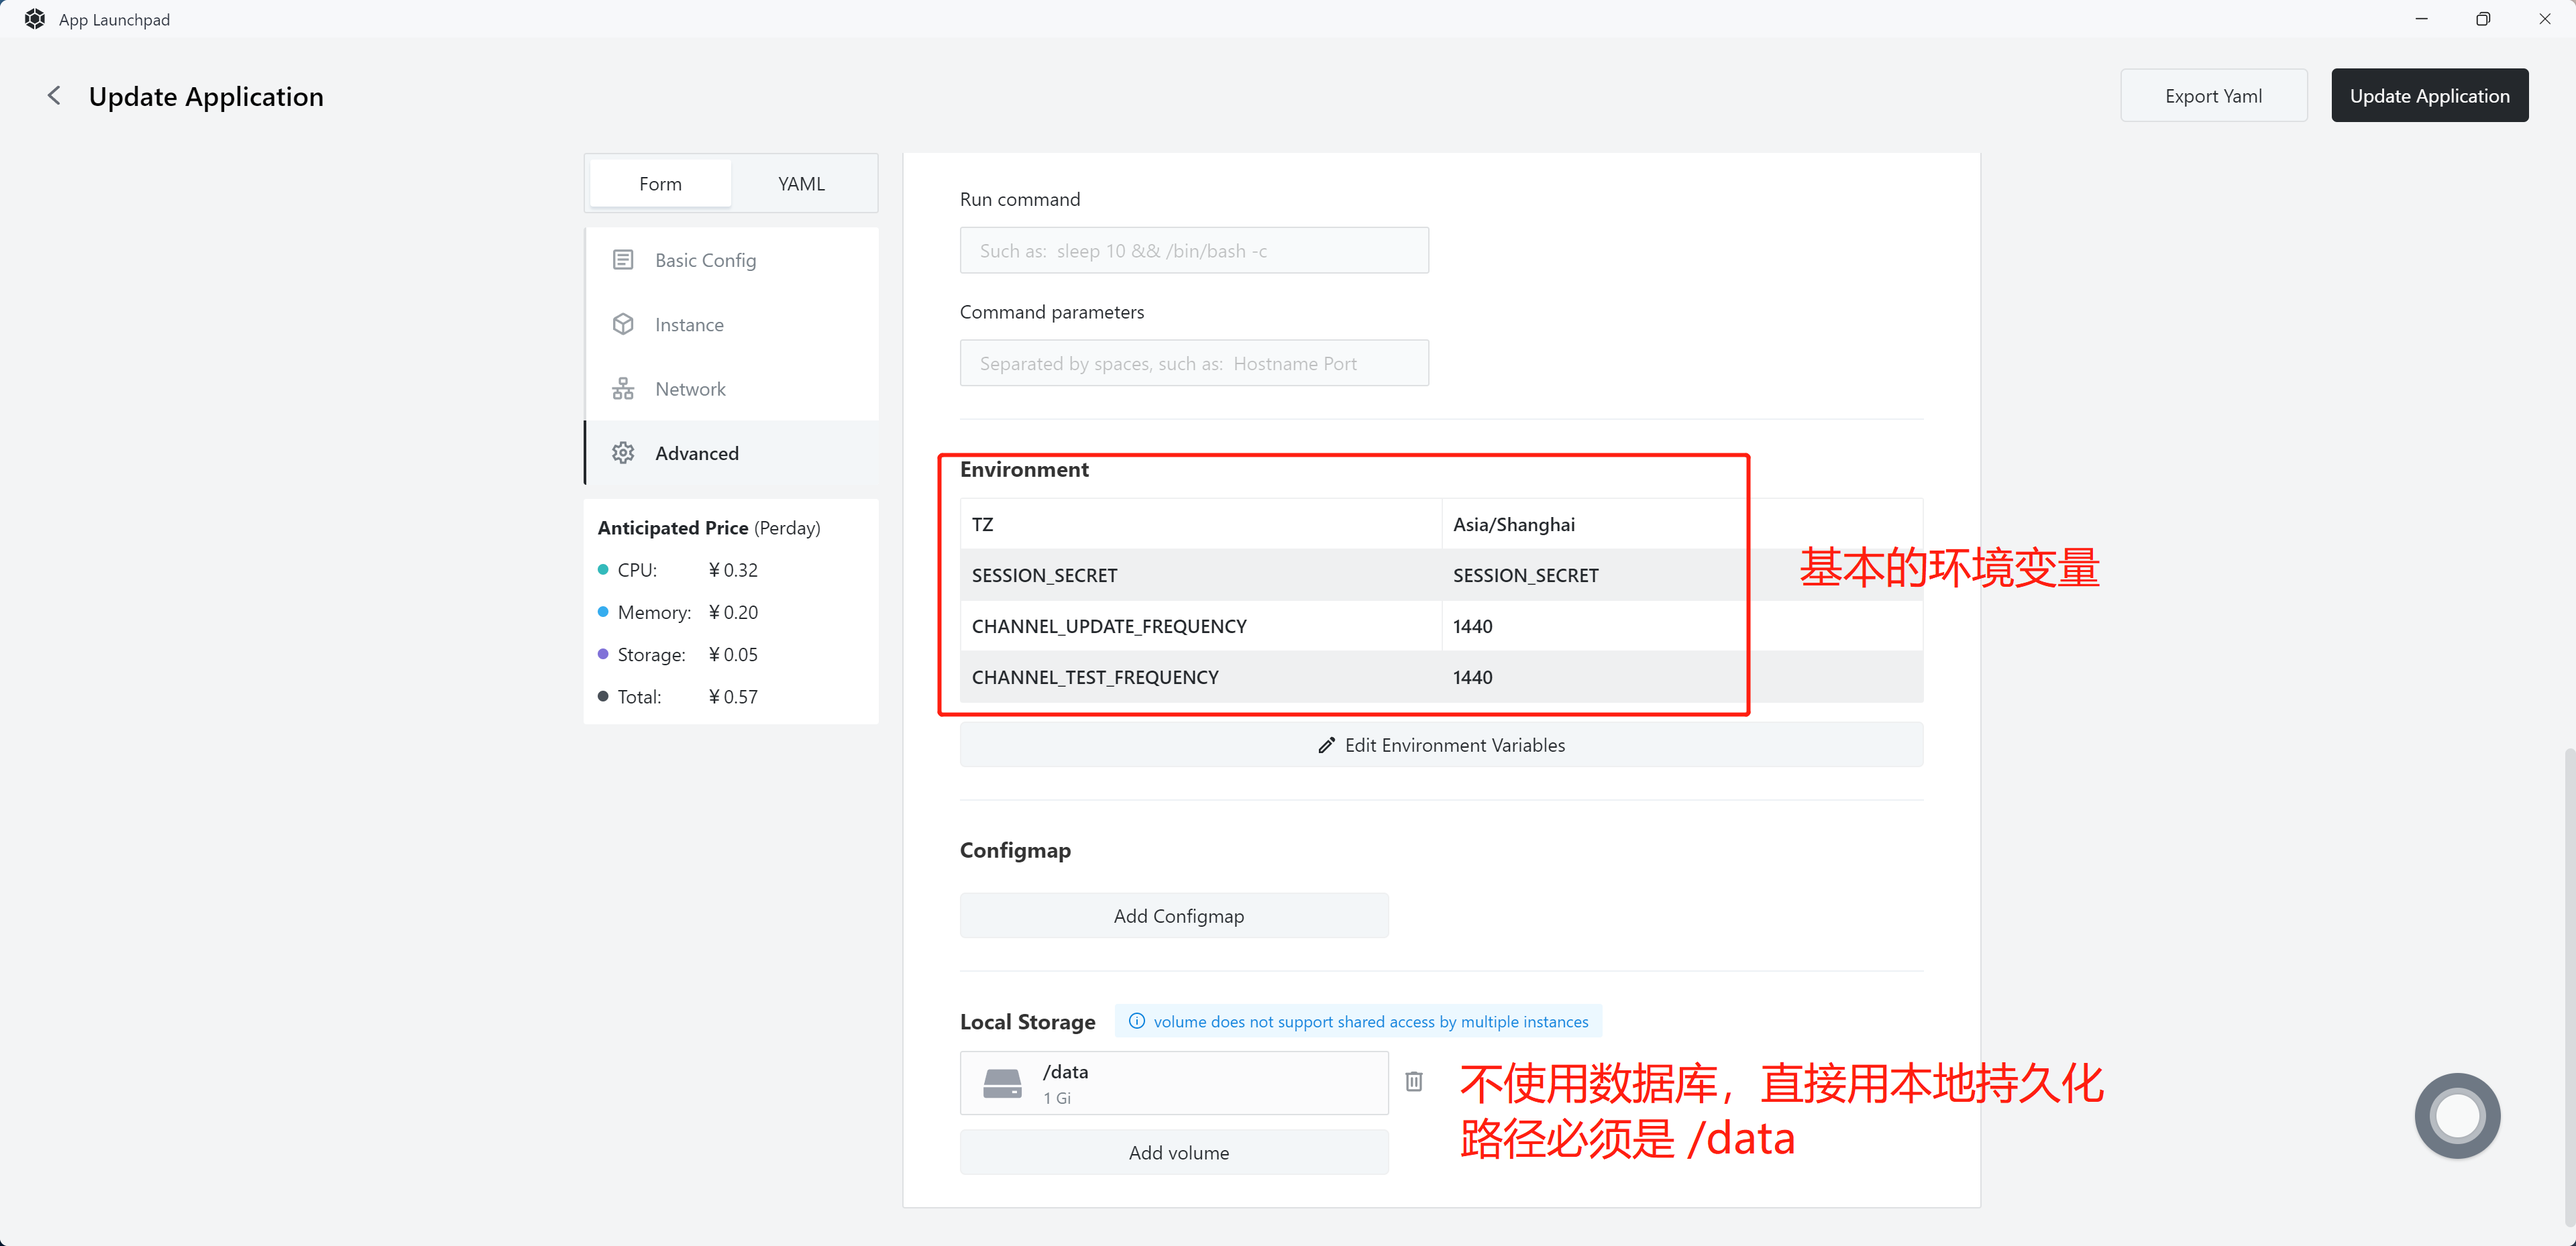
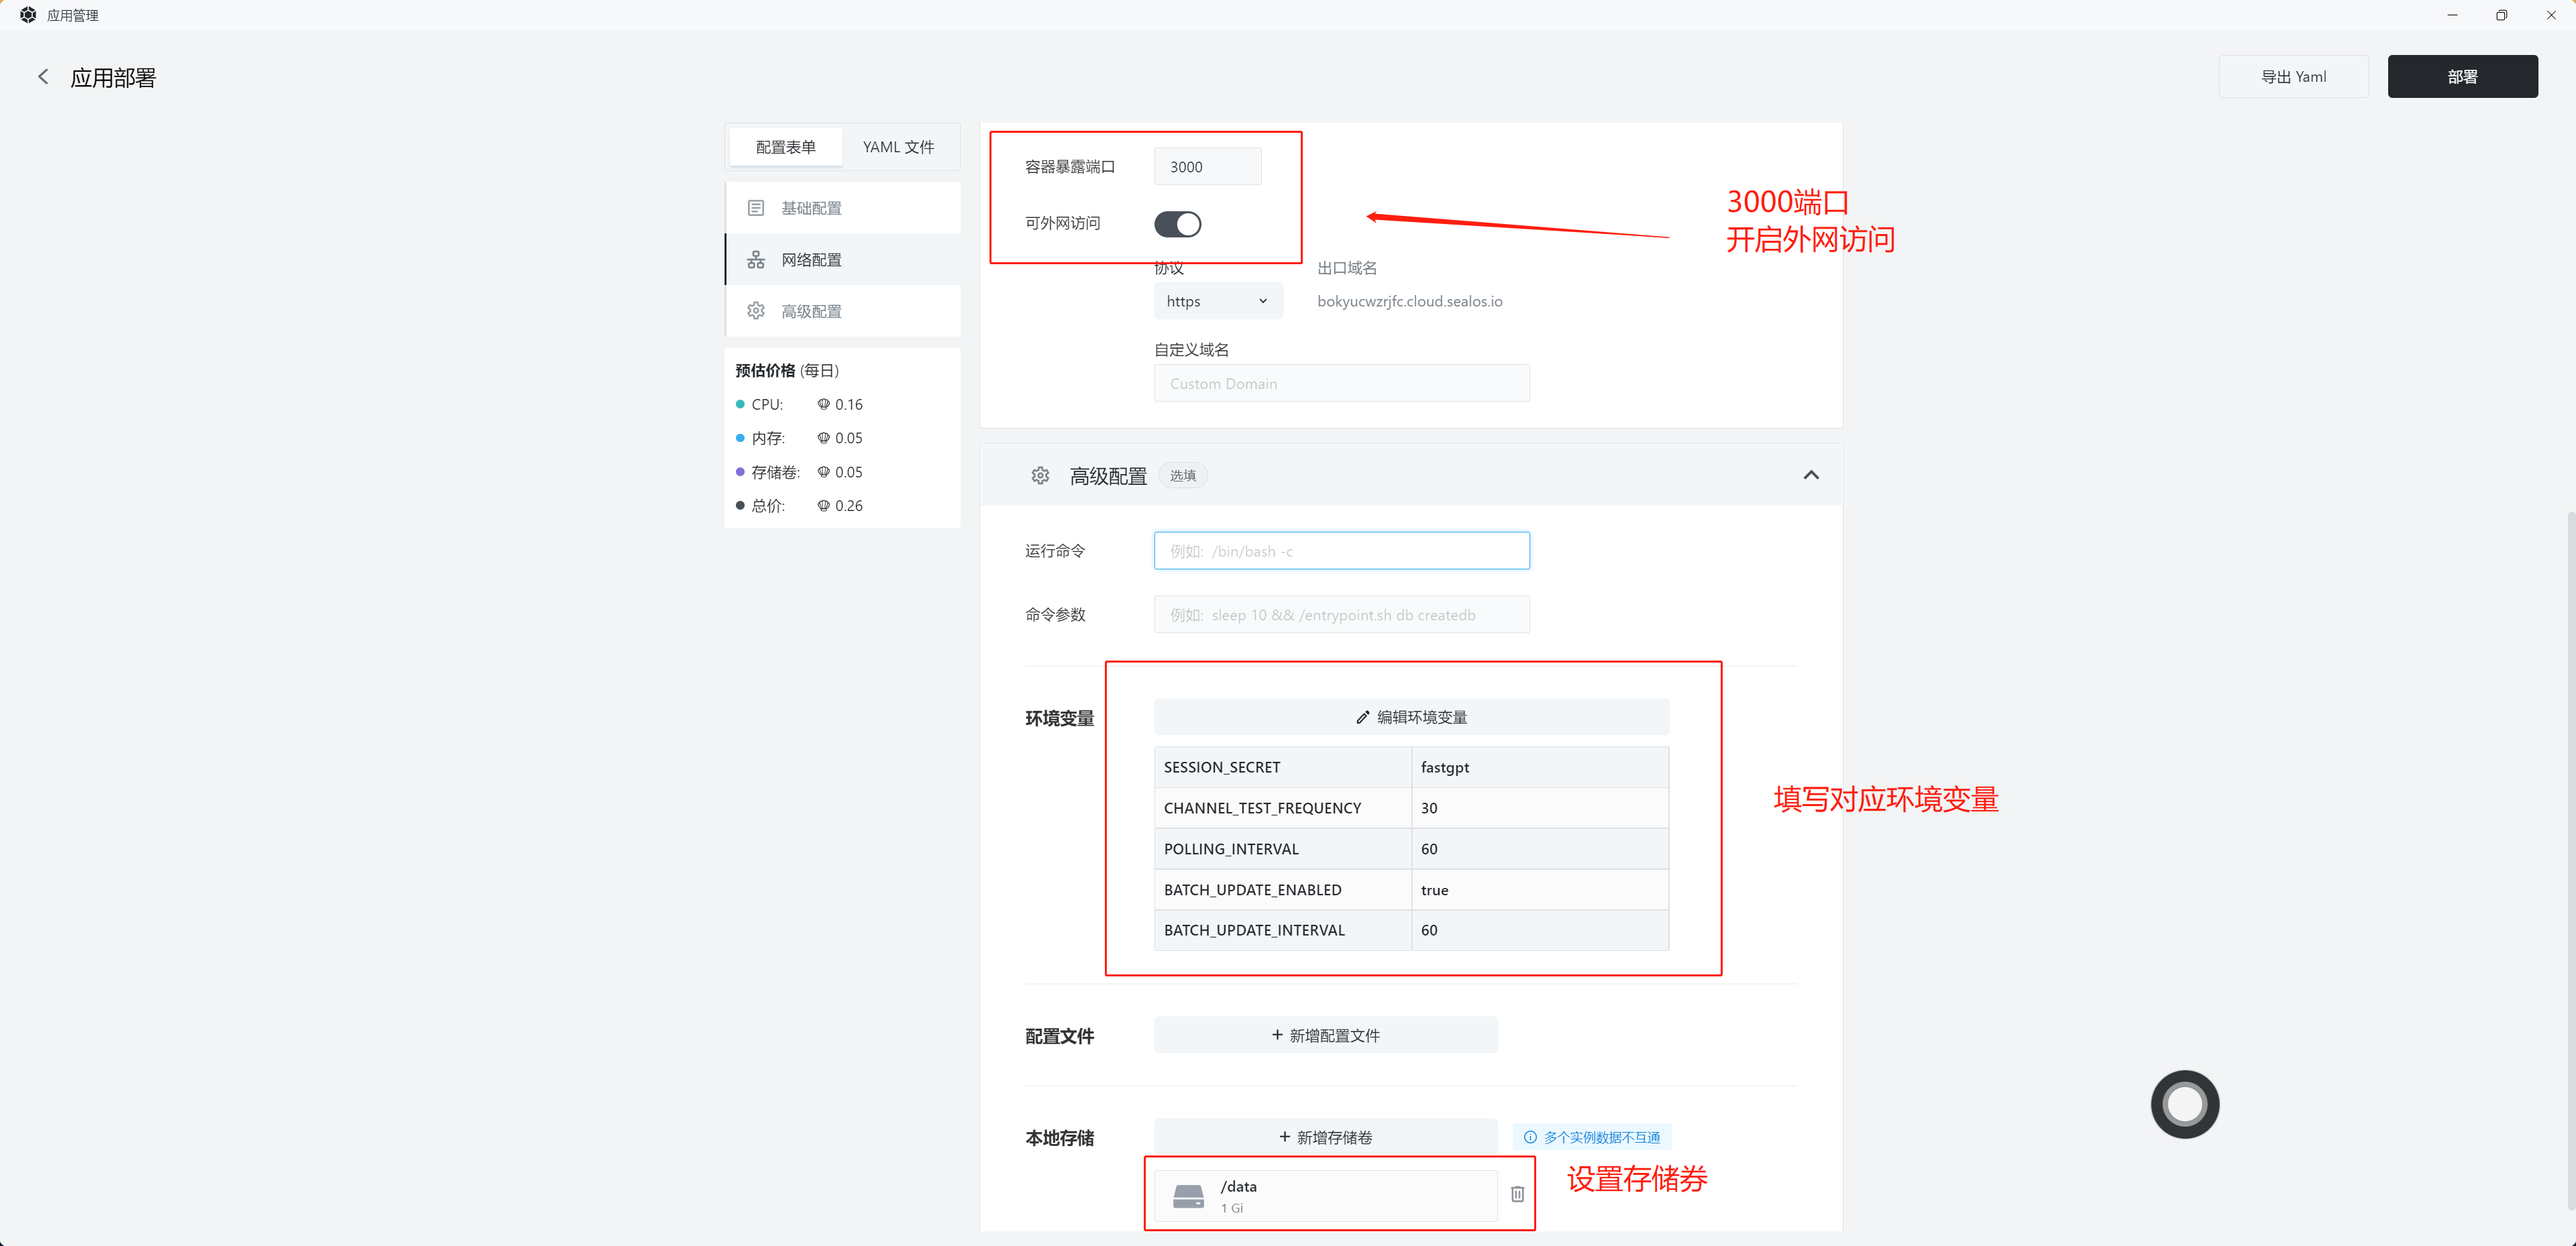
docs

diff --git a/docSite/content/docs/installation/one-api.md b/docSite/content/docs/installation/one-api.md
@@ -43,7 +43,15 @@ SqlLite 版本不支持多实例，适合个人小流量使用，但是价格非
 打开外网访问开关后，Sealos 会自动分配一个可访问的地址，不需要自己配置。
 
 ![step3](/imgs/oneapi-step3.png)
-填写完参数后，点击右上角部署即可。
+填写完参数后，点击右上角部署即可。环境变量：
+
+```
+SESSION_SECRET=SESSION_SECRET
+CHANNEL_TEST_FREQUENCY=30
+POLLING_INTERVAL=60
+BATCH_UPDATE_ENABLED=true
+BATCH_UPDATE_INTERVAL=60
+```
 
 ## 使用步骤
 
